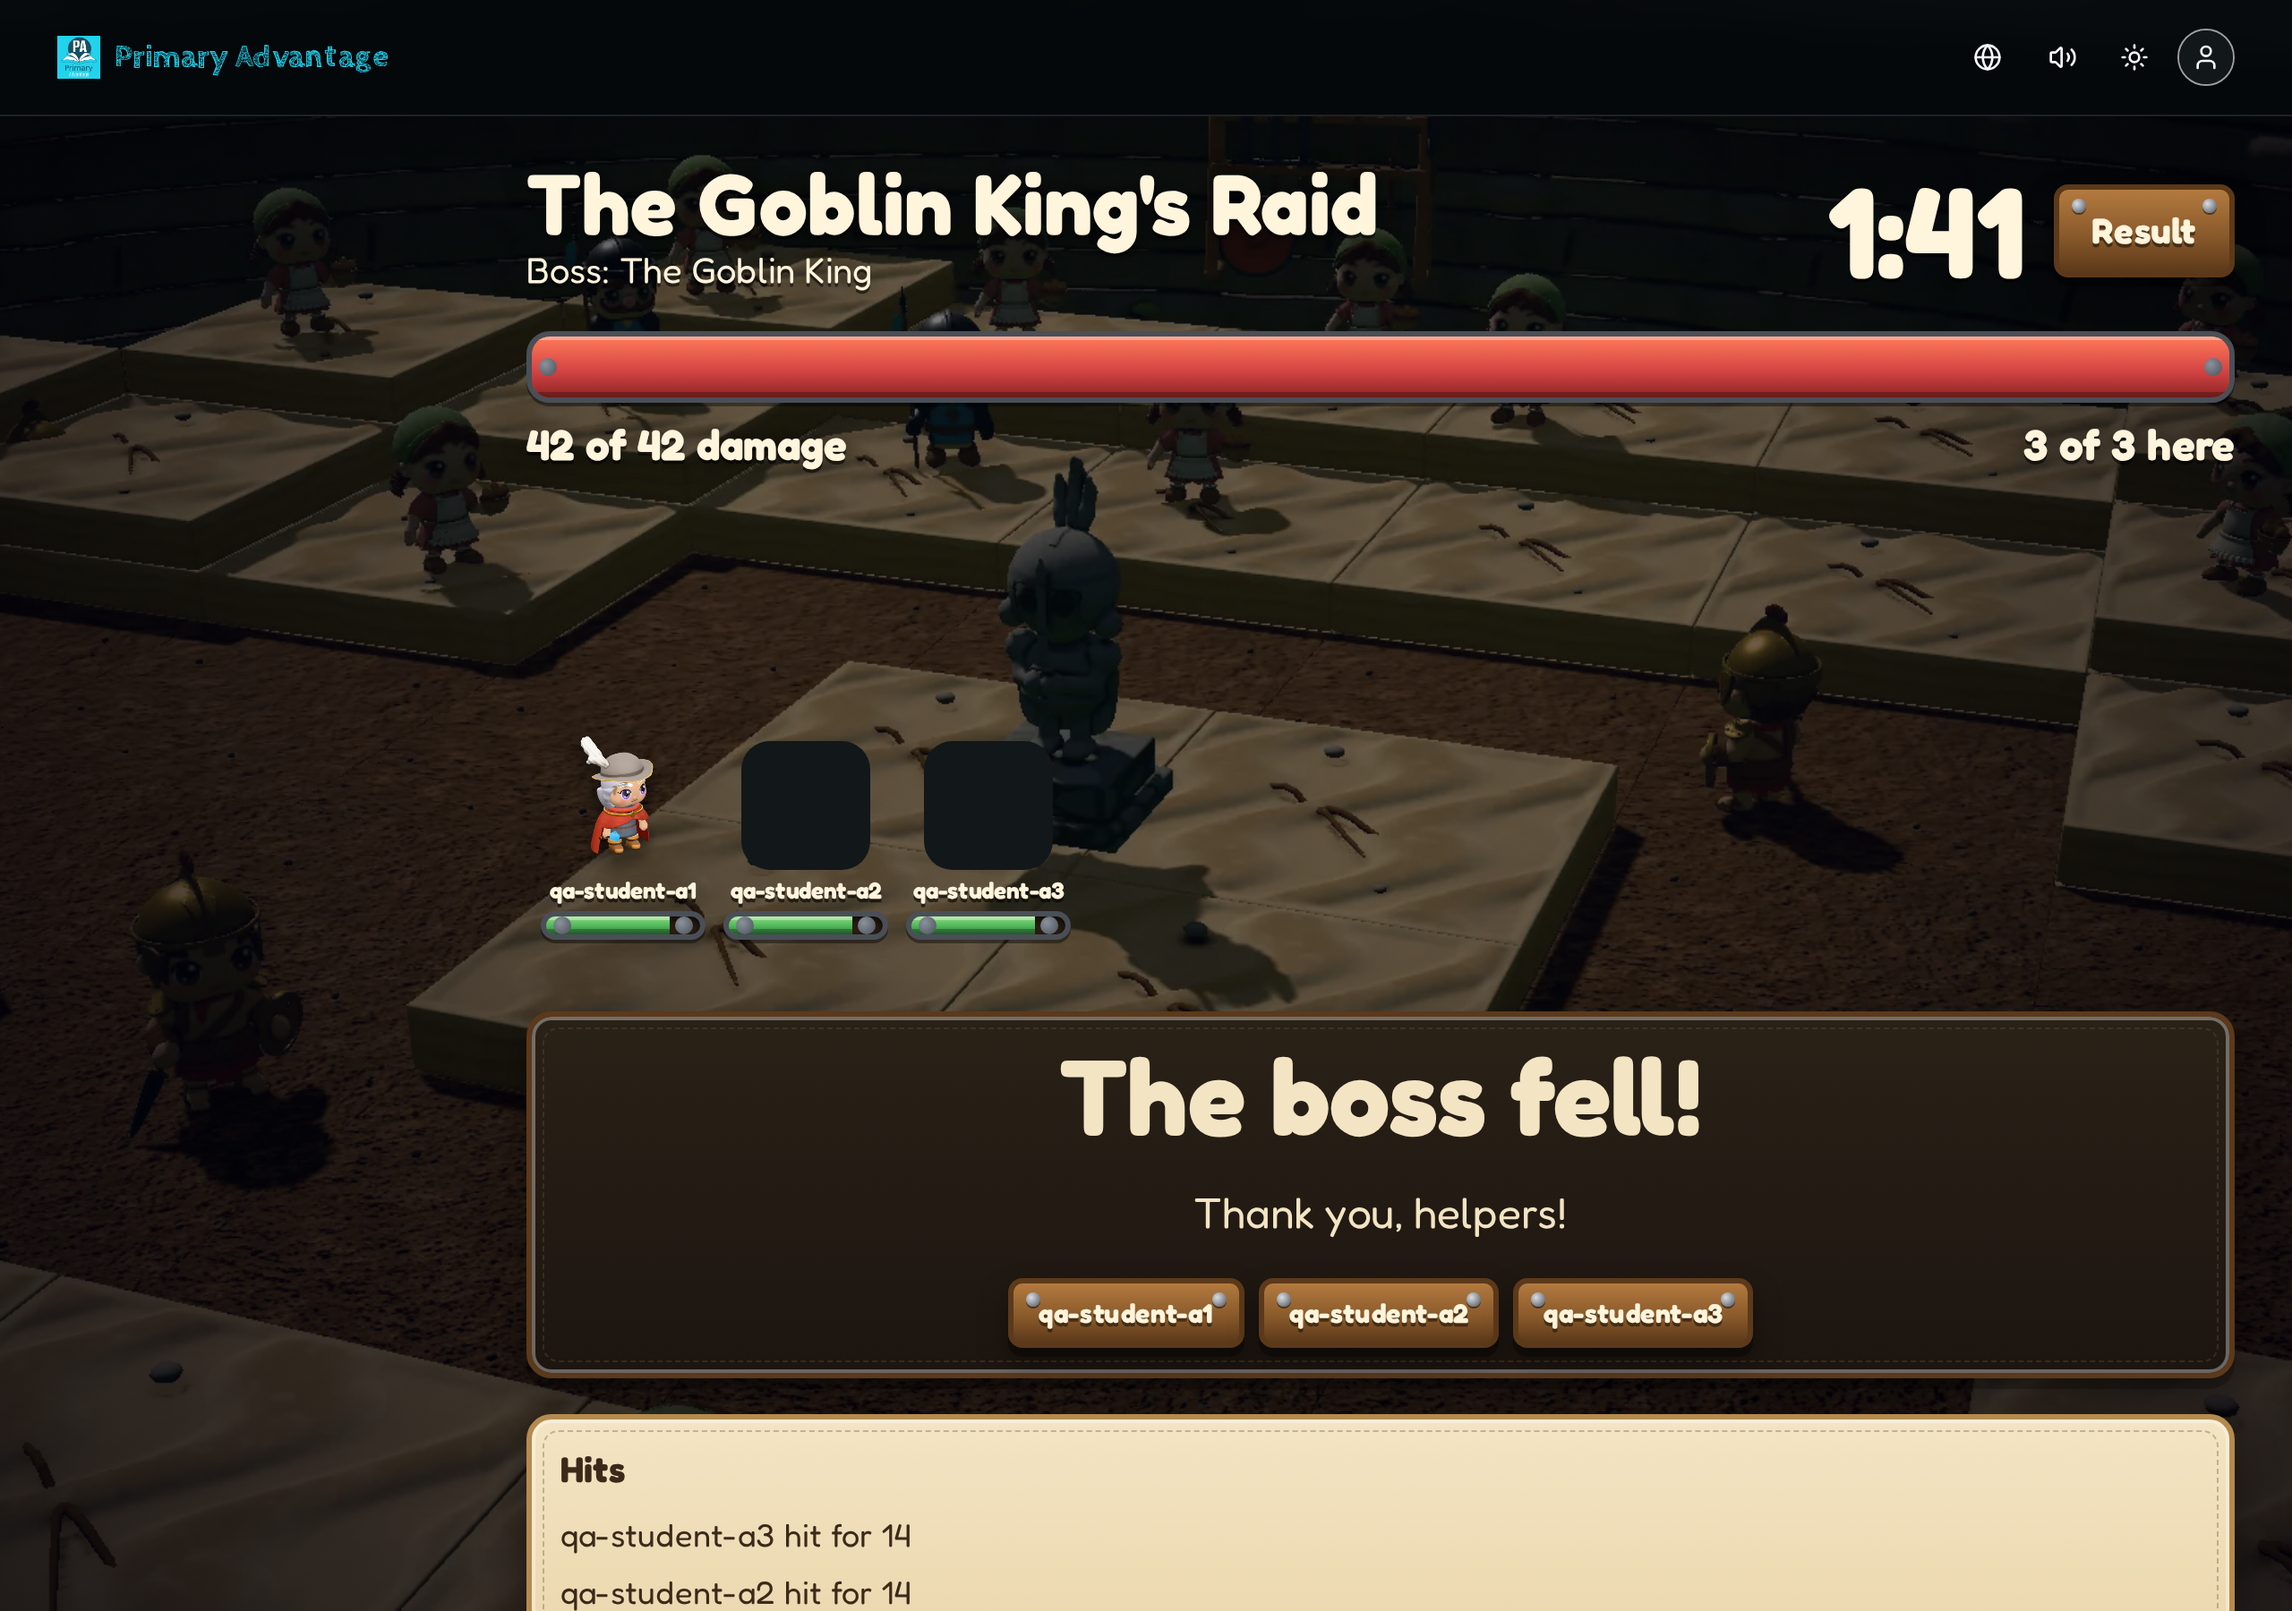
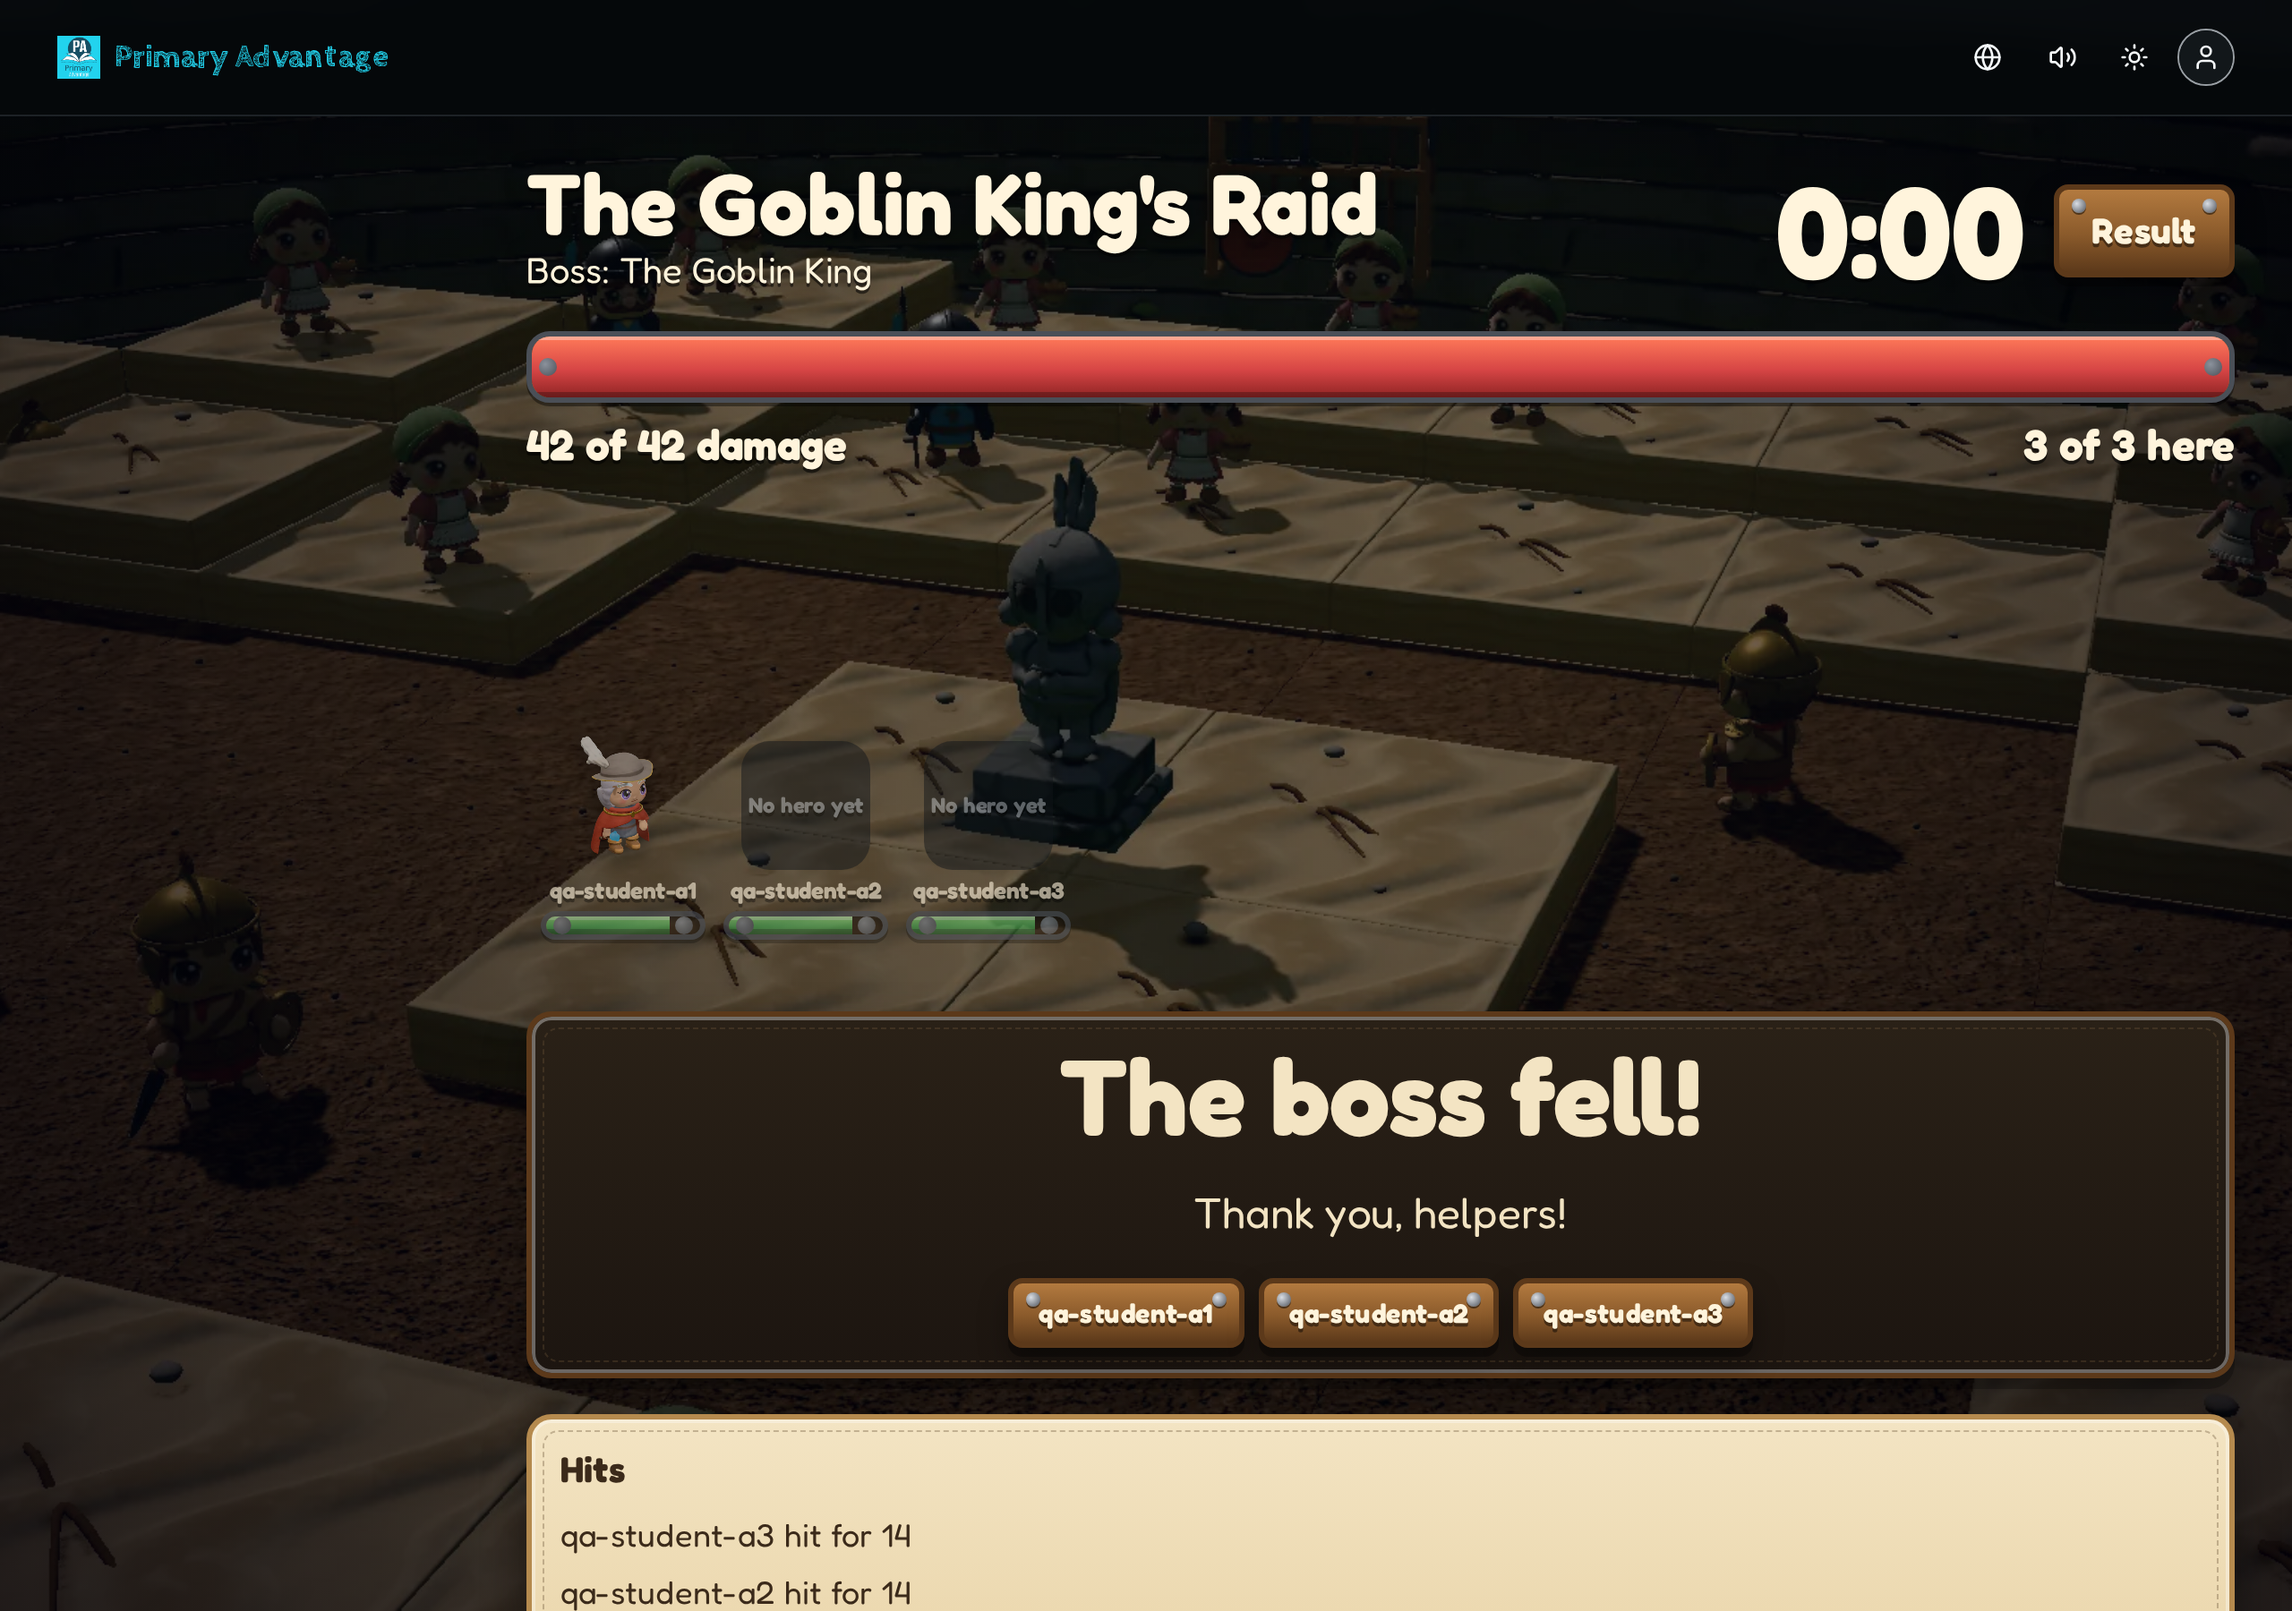
fix(primary): purse refresh and no-hero tile (track_id: primary_rpg_skin_20261006)
The shop refreshes the server-rendered header after a purchase. The live
dashboard shows "No hero yet" for a student without an avatar instead
of an empty tile. Recaptured on the production build.

Changed region(s): [[0.2188, 0.4356, 0.4688, 0.5911], [0.75, 0.0933, 0.875, 0.1867]]

diff --git a/measure/tracks/primary_rpg_skin_20261006/phase5/index.html b/measure/tracks/primary_rpg_skin_20261006/phase5/index.html
@@ -50,8 +50,8 @@
 
 <h2>Open items</h2>
 <ul>
-<li><strong>The header purse does not refresh after a purchase.</strong> The coin counter in the top bar keeps the old balance until the next navigation (220 stayed in shot 3 while the shop purse showed 170). Small fix: refresh the shell balance from the purchase response.</li>
-<li><strong>Students with no hero show a white square on the projector.</strong> <code>qa-student-a2</code> and <code>qa-student-a3</code> have no avatar, so the live dashboard draws an empty tile. Show the class placeholder portrait instead.</li>
+<li><strong>Fixed: the header purse now refreshes after a purchase.</strong> The first frames showed 220 in the top bar while the shop purse read 170; the shop now refreshes the server-rendered header, and the recapture shows 95 after the Bracers purchase.</li>
+<li><strong>Fixed: a student with no hero gets a "No hero yet" tile on the projector</strong> (<code>qa-student-a2</code> and <code>qa-student-a3</code> in the recapture). A neutral hero silhouette from Forge replaces the text in a later skin release.</li>
 <li><strong>The hit frame of shot 4 is the battle page state, not the slash.</strong> The slash and the rising damage number play inside the archway game at the moment of a correct answer; a headless frame of the battle page shows the boss with the student's pending hits. The video session records the slash from a real phone in the game.</li>
 <li><strong>The coin rain of shot 5 did not land in the headless frame</strong>; the fallen-boss panel, the thank-you list, and the hits list did. Check it on a real projector at the rehearsal.</li>
 </ul>

diff --git a/apps/primary-advantage/components/avatar/__tests__/avatar-shop.test.tsx b/apps/primary-advantage/components/avatar/__tests__/avatar-shop.test.tsx
@@ -9,6 +9,8 @@ import { renderWithMessages } from "@/components/__tests__/helpers/render-with-m
 vi.mock("../portrait-canvas", () => ({
   AvatarPortrait: ({ pieces, alt }: { pieces?: { itemId: string; dye: string | null }[]; alt: string }) => <div role="img" data-testid="portrait" data-pieces={JSON.stringify(pieces ?? [])} aria-label={alt} />,
 }));
+const refresh = vi.fn();
+vi.mock("next/navigation", async (importOriginal) => ({ ...(await importOriginal<object>()), useRouter: () => ({ refresh }) }));
 vi.mock("@reading-advantage/avatar-kit", () => ({ AVATAR_CATALOG: {}, AVATAR_BASE: { slots: {} }, TINT_SLOTS: [] }));
 
 import { AvatarShop, tryOnPieces } from "../avatar-shop";
@@ -69,6 +71,7 @@ describe("AvatarShop", () => {
     expect(within(card).getByText("You keep 100 GP")).toBeInTheDocument();
     await user.click(within(card).getByRole("button", { name: "Buy for 50 GP" }));
     await waitFor(() => expect(fetchMock).toHaveBeenCalledWith("/api/v1/avatar/purchase", expect.objectContaining({ method: "POST", body: JSON.stringify({ itemId: "hat-3" }) })));
+    await waitFor(() => expect(refresh).toHaveBeenCalled()); // the header purse re-renders on the server
     expect(await within(card).findByText("Owned")).toBeInTheDocument();
     expect(screen.getByTitle("100 GP")).toBeInTheDocument();
     expect(screen.getByRole("status")).toHaveTextContent("Good choice!");

diff --git a/apps/primary-advantage/components/avatar/avatar-shop.tsx b/apps/primary-advantage/components/avatar/avatar-shop.tsx
@@ -2,6 +2,7 @@
 
 import { useEffect, useRef, useState, useTransition } from "react";
 import { useTranslations } from "next-intl";
+import { useRouter } from "next/navigation";
 import {
   avatarSlotSchema,
   type AvatarLoadout,
@@ -78,6 +79,7 @@ export function AvatarShop({
   const [line, setLine] = useState<"greeting" | "thanks">("greeting");
   const [error, setError] = useState<string | null>(null);
   const [pending, start] = useTransition();
+  const router = useRouter();
 
   const listed = items.filter((item) => slot === "all" || item.slot === slot);
   const perPage = SHELF_SIZE * SHELVES_PER_PAGE;
@@ -128,6 +130,7 @@ export function AvatarShop({
             : t("shop.shopError"),
         );
       setGp(body.gp ?? gp);
+      router.refresh(); // the header purse is server-rendered
       setItems((list) =>
         list.map((item) =>
           item.id !== itemId

diff --git a/apps/primary-advantage/components/quest/live-dashboard.tsx b/apps/primary-advantage/components/quest/live-dashboard.tsx
@@ -162,9 +162,12 @@ export function LiveDashboard({ initial }: { initial: QuestDashboardState }) {
                 />
               ) : (
                 <div
-                  className="bg-muted size-18 rounded-xl"
-                  aria-hidden="true"
-                />
+                  className="bg-muted/80 text-muted-foreground flex size-18 items-center justify-center rounded-xl px-1 text-center text-xs leading-tight"
+                  role="img"
+                  aria-label={t("noHero")}
+                >
+                  {t("noHero")}
+                </div>
               )}
               <span className="w-full truncate text-center">{s.name}</span>
               <Meter

diff --git a/apps/primary-advantage/components/quest/__tests__/battle.test.tsx b/apps/primary-advantage/components/quest/__tests__/battle.test.tsx
@@ -85,6 +85,11 @@ describe("BattleClient", () => {
 });
 
 describe("LiveDashboard", () => {
+  it("labels a student with no hero instead of an empty tile", () => {
+    renderWithMessages(<LiveDashboard initial={dashboard("play")} />, { locale: "en" });
+    expect(screen.getAllByRole("img", { name: "No hero yet" })).toHaveLength(2);
+  });
+
   const dashboard = (status: QuestStatus) => ({
     quest: { ...quest, status }, title, boss, target: 40, committed: 16, pending: 6, countdownEndsAt: null,
     students: [

diff --git a/measure/tracks/primary_rpg_skin_20261006/plan.md b/measure/tracks/primary_rpg_skin_20261006/plan.md
@@ -49,4 +49,4 @@ Spec: `spec.md`. Review page: `review.html`. Owner approved the plan on 2026-10-
 - [x] Shot 4: the boss takes a hit on the battle page (the slash and the damage number)
 - [x] Shot 5: the boss falls on the projector (the live dashboard in `result` with the coin rain); the committed damage comes from real completions: three QA students each start a challenge run and post one completion through `/api/v1/apk/challenges/runs` and `/api/v1/apk/complete` (the recipe `scratchpad/boss-fall.mjs`), or the staff rehearsal
 - [x] Report `phase5/index.html` with the five frames and a note per shot on the recording path for the video session
-- Open after the captures (2026-10-06): the header purse keeps the old balance after a purchase until navigation; a student with no hero shows a white tile on the projector; the slash frame of shot 4 and the coin rain of shot 5 come from live play at the rehearsal.
+- Fixed after the captures (2026-10-06): the header purse refreshes after a purchase; a student with no hero shows a "No hero yet" tile on the projector (a Forge silhouette later). Still from live play at the rehearsal: the slash frame of shot 4 and the coin rain of shot 5.
